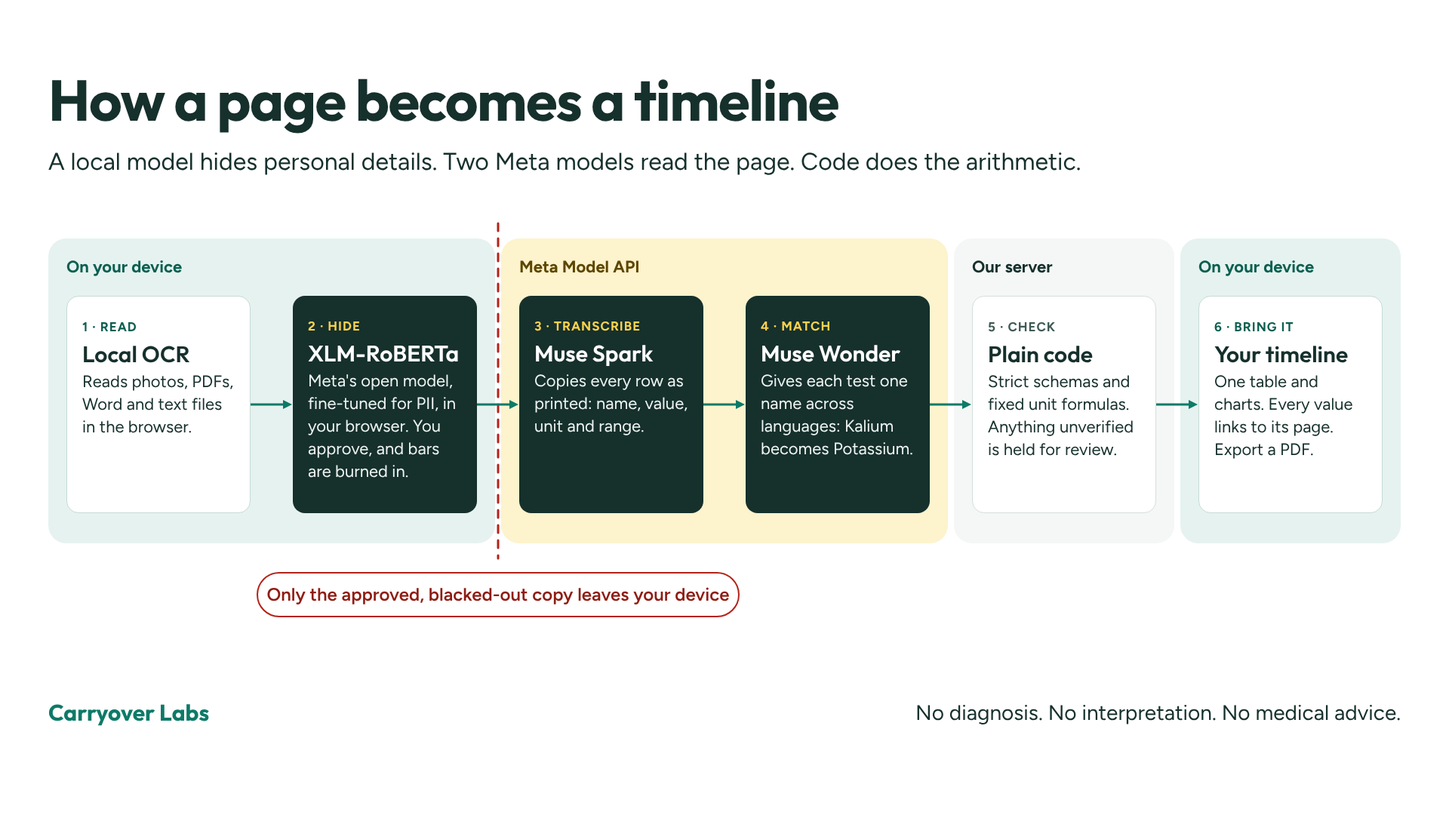
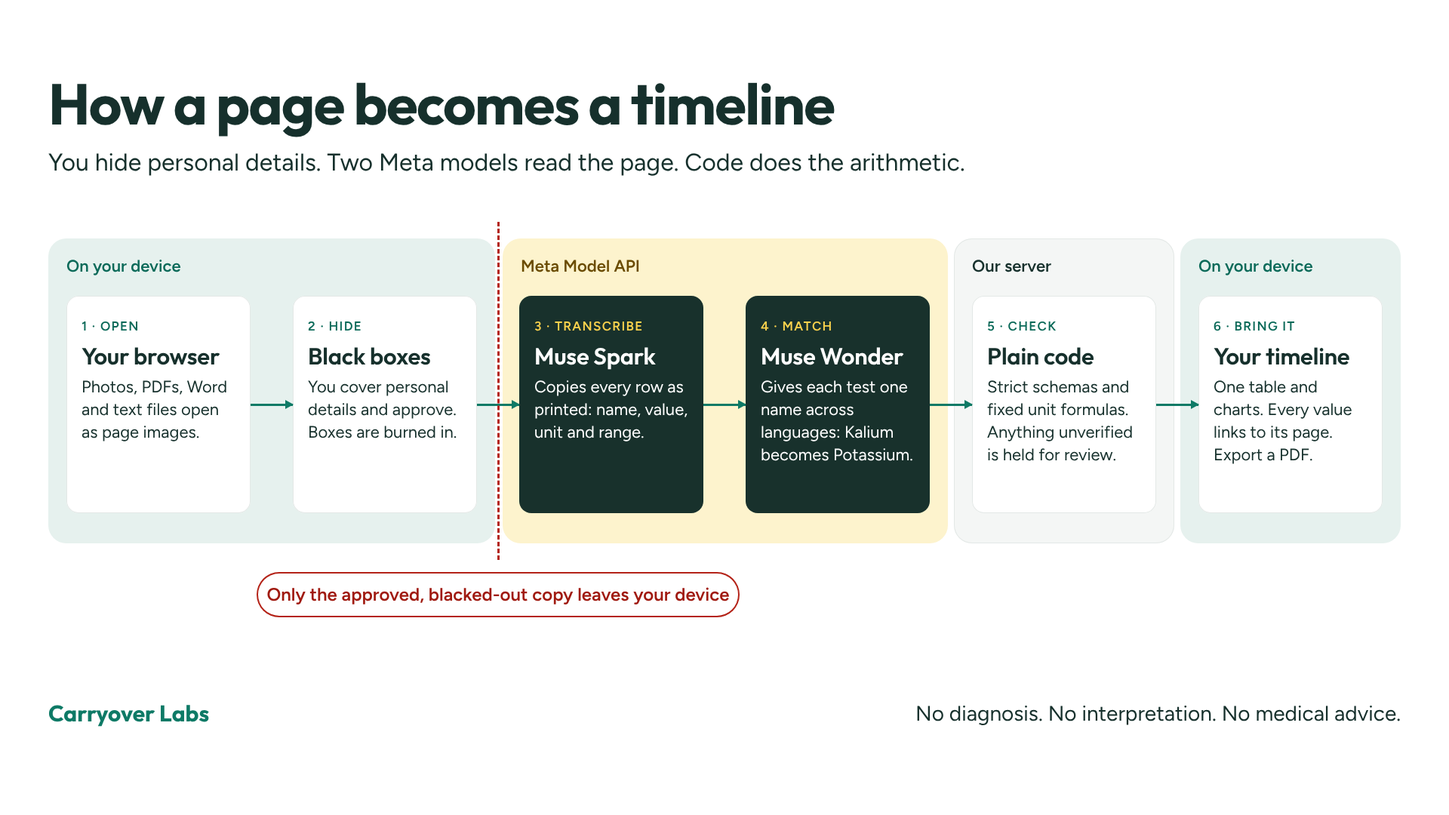
Update docs and images for manual redaction

diff --git a/src/app/review/review.page.css b/src/app/review/review.page.css
@@ -22,6 +22,6 @@
     gap: 1rem;
   }
   .review-embedded .review-decision {
-    max-height: max(20rem, calc(100dvh - 24rem));
+    max-height: max(20rem, calc(100dvh - 20rem));
   }
 }

diff --git a/README.md b/README.md
@@ -9,23 +9,24 @@
 **Years of lab reports. One timeline for a short doctor's appointment.**
 
 [![Try the live demo](https://img.shields.io/badge/Try_the_demo-carryover.pl-0d7a68?style=for-the-badge)](https://carryover.pl/demo)
-[![Watch the demo video](https://img.shields.io/badge/Watch_the_demo-3_min-c4302b?style=for-the-badge&logo=youtube&logoColor=white)](https://youtu.be/tEkvQCoRMUY)
+[![Watch the demo video](https://img.shields.io/badge/Watch_the_demo-2:24-c4302b?style=for-the-badge&logo=youtube&logoColor=white)](https://youtu.be/tEkvQCoRMUY)
 [![Run with Docker](https://img.shields.io/badge/Run_it-docker_compose_up-16302c?style=for-the-badge)](#run-it)
 
 ![Muse Spark 1.3](https://img.shields.io/badge/Muse_Spark-1.3-fcd34d)
 ![Muse Wonder 1.0](https://img.shields.io/badge/Muse_Wonder-1.0-fcd34d)
-![XLM-RoBERTa, on your device](https://img.shields.io/badge/XLM--RoBERTa-on_your_device-fcd34d)
 ![Reads Polish, German and English](https://img.shields.io/badge/reads-PL_·_DE_·_EN-0d7a68)
 
-[How it works](#how-it-works) · [Local PII redaction](#local-pii-redaction) · [How well it works](#how-well-it-works) · [Privacy](#privacy) · [Run it](#run-it) · [Built for the hackathon](#built-for-the-hackathon)
+[How it works](#how-it-works) · [Hiding personal details](#hiding-personal-details) · [How well it works](#how-well-it-works) · [Privacy](#privacy) · [Run it](#run-it) · [Built for the hackathon](#built-for-the-hackathon)
 
 </div>
 
-[![Watch the 3-minute Carryover demo on YouTube](docs/images/demo-thumbnail.png)](https://youtu.be/tEkvQCoRMUY)
+[![Watch the Carryover demo on YouTube](docs/images/demo-thumbnail.png)](https://youtu.be/tEkvQCoRMUY)
 
-<p align="center"><a href="https://youtu.be/tEkvQCoRMUY"><b>▶ Watch the 3-minute demo</b></a></p>
+<p align="center"><a href="https://youtu.be/tEkvQCoRMUY"><b>▶ Watch the demo</b></a></p>
 
-Carryover turns years of lab reports in Polish, German and English into one timeline a patient can bring to a short doctor's appointment. Personal details are found and blacked out in the browser by a local model built on Meta's XLM-RoBERTa, before anything is sent. Every chart point links back to the page it came from.
+Carryover turns years of lab reports in Polish, German and English into one timeline a patient can bring to a short doctor's appointment. You cover personal details with black boxes in the browser and approve each page, so no model sees a page until you say so. Every chart point links back to the page it came from.
+
+**Hackathon entry:** Indie, Build for Your World. Built Oct 26–Nov 4, 2026. The only models it runs are Meta's: Muse Spark 1.3 and Muse Wonder 1.0.
 
 > [!IMPORTANT]
 > Carryover does not diagnose, interpret results or give medical advice. High and low flags and reference ranges are copied from the reports.
@@ -40,21 +41,21 @@ Open **[carryover.pl/demo](https://carryover.pl/demo)**. It needs no account and
 
 - **See the originals** shows the pages the results came from. Every name, lab and address on them has been replaced.
 - **Watch how Meta AI processes docs** sends one of two blacked-out sample pages through the pipeline and shows Meta's recorded answers line by line.
-- **Try the sample patient**, on the Documents page, runs Jane's documents through the normal flow: the privacy check on your device, your approval, then reading and charting.
+- **Try the sample patient**, on the Documents page, runs Jane's documents through the normal flow: you cover what you want hidden, approve, and they are read and charted.
 
-| Check every page before it leaves                                                         | Watch the models read it                                                                              |
-| ----------------------------------------------------------------------------------------- | ----------------------------------------------------------------------------------------------------- |
-| ![The review screen with personal details covered by black bars](docs/images/review.webp) | ![Muse Spark and Muse Wonder reading a German phone photo line by line](docs/images/walkthrough.webp) |
+| Cover every detail before it leaves                                                        | Watch the models read it                                                                              |
+| ------------------------------------------------------------------------------------------ | ----------------------------------------------------------------------------------------------------- |
+| ![The review screen with personal details covered by black boxes](docs/images/review.webp) | ![Muse Spark and Muse Wonder reading a German phone photo line by line](docs/images/walkthrough.webp) |
 
 > [!NOTE]
-> **The sample patient's model responses are real, just cached.** Muse Spark's transcription of each of her 24 pages and Muse Wonder's identity of every test name on them were recorded once from the Meta Model API and are committed in [`api/samples/recorded.json`](api/samples/README.md). The server replays them through the same code as a live answer, so the sample costs nothing, needs no API key and keeps working when the day's spending limit is reached. The recordings were made from the sample pages as published, so hiding more on them doesn't change what comes back. Your own documents are always read live, and nothing about them is cached.
+> **The sample patient's model responses are real, just cached.** Muse Spark's transcription of each of her 24 pages and Muse Wonder's identity of every test name on them were recorded once from the Meta Model API and are committed in [`api/samples/recorded.json`](api/samples/README.md). The server replays them through the same code as a live answer, so the sample costs nothing, needs no API key and keeps working when the day's spending limit is reached. The recordings were made from the sample pages as published, so covering more on them doesn't change what comes back. Your own documents are always read live, and nothing about them is cached.
 
 ## How it works
 
-![The six steps from a page on your device to a timeline](docs/images/pipeline.png)
+![The steps from a page on your device to a timeline](docs/images/pipeline.png)
 
-1. **Add a file.** Photos, PDFs, Word and text files are read in the browser (Tesseract OCR, pdf.js, mammoth).
-2. **Hide personal details.** A local model built on **XLM-RoBERTa** and rules suggest names, addresses and identifiers to hide. The person checks every page, turns sideways pages upright, hides more by tapping words or drawing boxes, and approves. Masks are burned into fresh page images.
+1. **Add a file.** Photos, PDFs, Word and text files become page images in the browser (pdf.js, mammoth). Nothing reads them yet.
+2. **Hide personal details.** The person drags a black box over every name, ID, address and signature, turns sideways pages upright, and approves. Boxes are burned into fresh page images.
 3. **Read the results.** Each approved, redacted page image is queued as a job for **Muse Spark**, which transcribes the lab table literally. The browser collects results with a long poll, so slow model calls never hold a request open.
 4. **Match tests across languages.** **Muse Wonder** maps the printed test names of the whole batch to one identity per test. Unit conversion and chart building are deterministic server code; the model never supplies numbers.
 5. **Bring it to the appointment.** Print the results page or save it as a PDF from the print dialog.
@@ -67,18 +68,17 @@ Readings with an uncertain transcription, an unresolved identity, a missing date
 - **Dates in footnotes.** Some Polish reports print the collection date in a footnote, sometimes on another page. Spark returns each row's footnote marker and every date printed elsewhere, and server code joins them across the document's pages. An ambiguous date such as 01/06/2012 is settled by the other dates in the document, and two conflicting dates leave the reading undated and in review.
 - **Two results on one line.** When a line prints a percentage and an absolute count, as neutrophils often do, Spark returns two rows and Muse Wonder keeps them as separate tests.
 
-Each model has the job it fits. Personal details have to be found before anything leaves the device, so that step runs a small Meta XLM-RoBERTa model in the browser instead of a hosted model. Reading a photographed table needs vision, so each approved page goes to Muse Spark. Naming a test is a question about all the reports together, so Muse Wonder sees every printed name in the batch at once. Numbers never come from a model: unit conversion and charts are plain server code.
+Each model has the job it fits. Reading a photographed table needs vision, so each approved page goes to Muse Spark. Naming a test is a question about all the reports together, so Muse Wonder sees every printed name in the batch at once. Numbers never come from a model: unit conversion and charts are plain server code.
 
-## Local PII redaction
+## Hiding personal details
 
-Health records are too sensitive to redact on a server, so Carryover does it in the browser. It runs [`bardsai/eu-pii-anonimization-multilang`](https://huggingface.co/bardsai/eu-pii-anonimization-multilang), a token classifier built on Meta AI's open [XLM-RoBERTa](https://huggingface.co/FacebookAI/xlm-roberta-base), with no call to any server to find personal details.
+Health records are too sensitive to send anywhere unchecked, so nothing reads a page until the person has approved it.
 
-- **On your device:** the model runs in a Web Worker, as WebGPU FP16 (about 555 MB) or CPU Q8 (about 279 MB). It's downloaded once from Hugging Face at a pinned revision, then reused.
-- **Model plus rules:** rules catch IDs, emails and postcodes alongside the model. Details hidden in one document are reused in the next.
-- **You decide:** you check every page, hide more by tapping words or drawing boxes, and approve. Manual review skips the model entirely.
-- **Burned in, not covered up:** masks are burned into a fresh JPEG, so nothing sits underneath. Reopening a saved copy can only add masks.
+- **On your device:** each page opens as an image in the browser. No model and no OCR run here.
+- **You decide:** drag a box over anything personal, tap a box to remove it, undo, redo and turn sideways pages upright. A keyboard form takes a box as percentages of the page.
+- **Burned in, not covered up:** boxes are burned into a fresh JPEG, so nothing sits underneath and no text layer survives. Reopening a saved copy can only add boxes.
 
-On a synthetic page with five identity fields, the last local check found and fully covered all five and masked no result. On rotated pages, automatic detection found nothing, because OCR doesn't detect orientation, so those pages are turned upright and hidden by hand. `node eval/check-pipeline-privacy.mjs` runs the check in a browser with WebGPU.
+An earlier automatic detector is kept on the `on-device-privacy` branch. It relied on non-Meta models, so it isn't part of this entry or the deployed app.
 
 ## How well it works
 
@@ -95,7 +95,7 @@ On the sample patient's 10 documents (24 pages, 2012–2024, three languages, tw
 
 | Data                                                                    | Where it goes                  |
 | ----------------------------------------------------------------------- | ------------------------------ |
-| Original files, filenames, OCR words, hidden text                       | Nowhere: browser only          |
+| Original files, filenames, anything you cover                           | Nowhere: browser only          |
 | Approved, redacted page images                                          | Our API, then Muse Spark       |
 | Printed test names, units, specimens, section headings and word results | Our API, then Muse Wonder      |
 | Approved sample patient pages                                           | Our API only (recorded answer) |
@@ -115,7 +115,7 @@ docker compose up
 
 Open http://localhost:3000 once the log says `App and API are running`. The first run takes a few minutes. There is one container and no separate frontend or port 4200: the image builds the app and the API for Linux and serves both from one origin.
 
-Put `META_MODEL_API_KEY` in `api/.env` to read your own documents. Without it, `/demo`, the sample patient and on-device redaction still work. The port is bound to `127.0.0.1` because the API spends your Meta credits.
+Put `META_MODEL_API_KEY` in `api/.env` to read your own documents. Without it, `/demo`, the sample patient and covering pages still work. The port is bound to `127.0.0.1` because the API spends your Meta credits.
 
 ### Locally
 
@@ -130,7 +130,7 @@ npm run start:api
 npm start
 ```
 
-Open http://localhost:4200. Without a key, everything but reading your own documents works: `/demo`, the sample patient and on-device redaction.
+Open http://localhost:4200. Without a key, everything but reading your own documents works: `/demo`, the sample patient and covering pages.
 
 ## Built for the hackathon
 
@@ -138,12 +138,13 @@ Carryover was built for the [Meta Global AI Developer Hackathon](https://cerebra
 
 The repository starts on Oct 26. The Oct 29 commit is a large rough draft generated during the hackathon. I didn't commit early, and the later commits refine it.
 
-| Not built here                                                                                                                            | Used for                                 |
-| ----------------------------------------------------------------------------------------------------------------------------------------- | ---------------------------------------- |
-| Muse Spark 1.3, Muse Wonder 1.0 (Meta Model API)                                                                                          | Transcribing pages and identifying tests |
-| [`bardsai/eu-pii-anonimization-multilang`](https://huggingface.co/bardsai/eu-pii-anonimization-multilang), built on Meta AI's XLM-RoBERTa | Finding personal details, in the browser |
-| Tesseract OCR, pdf.js, mammoth                                                                                                            | Reading files in the browser             |
-| Angular, NestJS and other open-source libraries                                                                                           | The app and the API                      |
+| Not built here                                   | Used for                                 |
+| ------------------------------------------------ | ---------------------------------------- |
+| Muse Spark 1.3, Muse Wonder 1.0 (Meta Model API) | Transcribing pages and identifying tests |
+| pdf.js, mammoth                                  | Opening files in the browser             |
+| Angular, NestJS and other open-source libraries  | The app and the API                      |
+
+Muse Spark and Muse Wonder are the only models the project runs.
 
 ## For developers
 
@@ -162,7 +163,7 @@ npm run e2e             # upload → review → approve, the sample patient and 
 node eval/score-samples.mjs   # Meta's recorded answers against the hand-checked rows (no key)
 ```
 
-CI runs the same steps, and prints the evaluation table. Tests use synthetic data and stubbed model calls; they never make paid requests. When `api/samples/recorded.json` is present, the API tests also check that it charts every sample document without a model.
+`.github/workflows/check.yml` runs the same steps and prints the evaluation table. Tests use synthetic data and stubbed model calls; they never make paid requests. When `api/samples/recorded.json` is present, the API tests also check that it charts every sample document without a model.
 
 </details>
 
@@ -171,9 +172,8 @@ CI runs the same steps, and prints the evaluation table. Tests use synthetic dat
 
 | Path                                        | What it does                                                                              |
 | ------------------------------------------- | ----------------------------------------------------------------------------------------- |
-| `src/app/extraction`                        | Reads files and runs local OCR                                                            |
-| `src/app/pii`                               | Finds personal details (local model worker + rules)                                       |
-| `src/app/redaction`, `src/app/review`       | Burns masks into page images; the review screen                                           |
+| `src/app/extraction`                        | Turns files into page images in the browser                                               |
+| `src/app/redaction`, `src/app/review`       | Burns boxes into page images; the review screen                                           |
 | `src/app/core/local-history.ts`             | Browser storage for approved documents and results                                        |
 | `src/app/core/results.service.ts`           | Sends approved pages to the API and saves the answers                                     |
 | `src/app/results`                           | Charts, source viewer, corrections, print layout                                          |
@@ -182,7 +182,7 @@ CI runs the same steps, and prints the evaluation table. Tests use synthetic dat
 | `api/src/shared`                            | Types and pure helpers used by both the app and the API (`@shared/*` in the app)          |
 | `api/samples`, `scripts/record-samples.mjs` | The sample patient's recorded Meta answers, and the script that records them              |
 | `e2e`                                       | Browser smoke tests on the built app (Playwright)                                         |
-| `eval`                                      | Evaluation: recorded answers against checked rows, live model and privacy checks          |
+| `eval`                                      | Evaluation: recorded answers against checked rows, live model checks                      |
 
 </details>
 

diff --git a/docs/architecture.md b/docs/architecture.md
@@ -1,13 +1,12 @@
 # Architecture
 
-Carryover is an Angular app that does all reading and redaction in the browser, plus a small NestJS API that runs approved page images through Meta's models as jobs. The server writes nothing to disk; results wait in its memory until the browser confirms it saved them, for at most 15 minutes.
+Carryover is an Angular app where the person covers personal details on each page, plus a small NestJS API that runs approved page images through Meta's models as jobs. Muse Spark and Muse Wonder are the only models the project runs, and neither sees a page before it's approved. The server writes nothing to disk; results wait in its memory until the browser confirms it saved them, for at most 15 minutes.
 
 ```mermaid
 flowchart LR
-  F[Photo / PDF / Word / text] --> O[Local OCR and text reading]
-  O --> P[Local personal-detail detection]
-  P --> R[Person reviews and approves]
-  R --> B[Masks burned into fresh JPEG]
+  F[Photo / PDF / Word / text] --> O[Page images in the browser]
+  O --> R[Person covers details and approves]
+  R --> B[Boxes burned into fresh JPEG]
   B --> H[(Browser history)]
   H -- one job per page --> S[Muse Spark: literal transcription]
   S --> H
@@ -20,15 +19,14 @@ flowchart LR
 
 ## Browser
 
-| Area          | Files                                                      | Notes                                                                                                                                                                                                                                                                                                                                                                                                             |
-| ------------- | ---------------------------------------------------------- | ----------------------------------------------------------------------------------------------------------------------------------------------------------------------------------------------------------------------------------------------------------------------------------------------------------------------------------------------------------------------------------------------------------------- |
-| Reading       | `extraction/`                                              | One OCR pass per page (Polish, German, English) on a copy at most 2,600 px on its longest side. No orientation detection: on the review screen a sideways page can be turned upright, and its details are then hidden by hand.                                                                                                                                                                                    |
-| Privacy check | `pii/`                                                     | `bardsai/eu-pii-anonimization-multilang`, pinned to revision `62ca5712`, in a Web Worker (WebGPU FP16 ≈ 555 MB, or CPU Q8 ≈ 279 MB) plus rules for IDs, emails and postcodes. Manual review skips the model. Details hidden in one document are reused in the next.                                                                                                                                               |
-| Redaction     | `redaction/`, `review/`                                    | The review screen and the burned image share one mask geometry (`@shared/mask-geometry`); turning a page turns its masks with it. Masks are burned into a fresh JPEG. Reopening a saved copy can only add masks.                                                                                                                                                                                                  |
-| Queue         | `core/document-queue.service.ts`, `core/queue-recovery.ts` | Processes files one at a time; unfinished work survives a refresh (IndexedDB checkpoint).                                                                                                                                                                                                                                                                                                                         |
-| Storage       | `core/local-history.ts`, `core/clear-local-data.ts`        | Approved documents, transcriptions and results in localStorage (parsed once and kept in memory until it changes); page images and the queue in IndexedDB. "Delete all my data from this browser" in the footer removes all of it.                                                                                                                                                                                 |
-| Processing    | `core/results.service.ts`, `core/job-client.ts`            | Submits each unsaved page as a job, collects results with one long poll, saves each page and confirms it, then queues normalization once every document is approved. A refresh resumes the same batch and sends failed pages again; a dropped connection is retried. A server that says no (switched off, today's limit) is reported at once; a queue that stays full for about two minutes stops with a message. |
-| Results       | `results/`                                                 | Charts with keyboard access and data tables, a source viewer, corrections with history, and an A4 print layout for saving as PDF.                                                                                                                                                                                                                                                                                 |
+| Area       | Files                                                      | Notes                                                                                                                                                                                                                                                                                                                                                                                                             |
+| ---------- | ---------------------------------------------------------- | ----------------------------------------------------------------------------------------------------------------------------------------------------------------------------------------------------------------------------------------------------------------------------------------------------------------------------------------------------------------------------------------------------------------- |
+| Opening    | `extraction/`                                              | Turns each file into page images in the browser (pdf.js, mammoth). No model or OCR runs here.                                                                                                                                                                                                                                                                                                                     |
+| Redaction  | `redaction/`, `review/`                                    | The person drags boxes over personal details; a tap removes one. The review screen and the burned image share one mask geometry (`@shared/mask-geometry`); turning a page turns its boxes with it. Boxes are burned into a fresh JPEG. Reopening a saved copy can only add boxes.                                                                                                                                 |
+| Queue      | `core/document-queue.service.ts`, `core/queue-recovery.ts` | Processes files one at a time; unfinished work survives a refresh (IndexedDB checkpoint).                                                                                                                                                                                                                                                                                                                         |
+| Storage    | `core/local-history.ts`, `core/clear-local-data.ts`        | Approved documents, transcriptions and results in localStorage (parsed once and kept in memory until it changes); page images and the queue in IndexedDB. "Delete all my data from this browser" in the footer removes all of it.                                                                                                                                                                                 |
+| Processing | `core/results.service.ts`, `core/job-client.ts`            | Submits each unsaved page as a job, collects results with one long poll, saves each page and confirms it, then queues normalization once every document is approved. A refresh resumes the same batch and sends failed pages again; a dropped connection is retried. A server that says no (switched off, today's limit) is reported at once; a queue that stays full for about two minutes stops with a message. |
+| Results    | `results/`                                                 | Charts with keyboard access and data tables, a source viewer, corrections with history, and an A4 print layout for saving as PDF.                                                                                                                                                                                                                                                                                 |
 
 ## API
 
@@ -47,7 +45,7 @@ Page transcription and normalization run as **jobs**. A request returns `202 Acc
 
 The batch ID is a random UUID kept in the browser; it is never listed. A full queue answers `429` when a page is submitted, never halfway through; an unknown or expired batch reads as empty, and the browser sends its unsaved pages again. While a long poll is open, a newly approved page ends it early so the page is sent at once.
 
-Every response carries a Content-Security-Policy (`api/src/security/http-security.ts`): scripts only from this origin or `blob:` (the ONNX runtime for the privacy model) plus WebAssembly, workers from this origin or `blob:`, network only to this origin and Hugging Face for the privacy model, no framing. Every model answer must match a strict JSON schema (Ajv). Responses over 256 KiB, truncated answers and invalid dates or regions are rejected. Unit factors come only from `records/units.ts`. Readings with an uncertain transcription, an unresolved identity, a missing date or an unverifiable unit stay out of the charts and are listed for review with a reason. Provider error bodies are never logged or returned.
+Every response carries a Content-Security-Policy (`api/src/security/http-security.ts`): scripts and workers only from this origin, WebAssembly for pdf.js's image decoders, network only to this origin, no framing. Every model answer must match a strict JSON schema (Ajv). Responses over 256 KiB, truncated answers and invalid dates or regions are rejected. Unit factors come only from `records/units.ts`. Readings with an uncertain transcription, an unresolved identity, a missing date or an unverifiable unit stay out of the charts and are listed for review with a reason. Provider error bodies are never logged or returned.
 
 Limits (`api/src/jobs/`): `MODEL_CONCURRENCY` model calls at once (default 8, round-robin between batches); `MODEL_DAILY_BUDGET_USD` US dollars of Meta calls per UTC day across everyone (default 10), priced from the token usage each answer reports (cut-off answers included, and the worst case when a call fails without a report), with the worst case of running calls held back; once reached, new pages and normalizations that need Meta get `503` with a plain message until midnight UTC; 40 pages per batch; 400 distinct test names per normalization; 200 jobs and about 300 MB of waiting images in total; a page image is dropped from memory as soon as its job finishes, fails or is cancelled; 15 minutes without contact before a batch is purged; 240 s per model call. There are no per-client rate limits. A malformed request gets `400`. The queue and the spending total live in one process (a restart resets the day's total); several API processes would need a shared store.
 
@@ -55,21 +53,10 @@ Limits (`api/src/jobs/`): `MODEL_CONCURRENCY` model calls at once (default 8, ro
 
 | Data                                                                    | Where it goes                  |
 | ----------------------------------------------------------------------- | ------------------------------ |
-| Original files, filenames, OCR words, hidden text                       | Nowhere: browser only          |
+| Original files, filenames, anything you cover                           | Nowhere: browser only          |
 | Approved, redacted page images                                          | Our API, then Muse Spark       |
 | Printed test names, units, specimens, section headings and word results | Our API, then Muse Wonder      |
 | Approved sample patient pages                                           | Our API only (recorded answer) |
 | Charts, corrections, printed copy                                       | Browser only                   |
 
 Anything a person leaves visible on an approved page is sent. While a job runs and until the browser confirms it saved the result (at most 15 minutes), the page image or its transcription is held in the API's memory, never on disk. Provider retention follows the Meta account's settings.
-
-## GPU model preparation
-
-The WebGPU export is generated, not committed:
-
-```sh
-python -m pip install onnx==1.23.2 onnxruntime==1.31.1
-python scripts/prepare-gpu-model.py
-```
-
-It writes `public/models/pii-fp16-62ca5712-v1/`. Without it, the app uses the CPU export from Hugging Face.

diff --git a/docs/evaluation.md b/docs/evaluation.md
@@ -4,7 +4,7 @@ How well the pipeline reads, names and charts lab results, measured on the sampl
 
 ## Meta's models on the sample patient
 
-`node eval/score-samples.mjs` (after `npm --prefix api run build`) scores Meta's answers for all ten sample documents against rows checked by hand. It needs no key and makes no calls: the answers are the ones recorded in `api/samples/recorded.json`, the same real Muse Spark and Muse Wonder answers the app replays for the sample patient. Each answer goes through the server's own code, as in the app: page parsing, test identification, dates, unit conversion and charts. CI runs it on every push.
+`node eval/score-samples.mjs` (after `npm --prefix api run build`) scores Meta's answers for all ten sample documents against rows checked by hand. It needs no key and makes no calls: the answers are the ones recorded in `api/samples/recorded.json`, the same real Muse Spark and Muse Wonder answers the app replays for the sample patient. Each answer goes through the server's own code, as in the app: page parsing, test identification, dates, unit conversion and charts.
 
 **The checked set.** `src/app/core/demo-data.ts` holds every result row printed on the 10 documents (24 pages, 2012–2024, Polish, German and English; two Polish PDF layouts, a German phone photo and an English fax): 289 rows, each transcribed by hand and checked against the page image, with its test and date. The `/demo` charts are built from them.
 
@@ -40,21 +40,15 @@ Notes on the table:
 
 `node eval/check-pipeline-models.mjs` (after `npm --prefix api run build`, with `META_MODEL_API_KEY` set) sends the German phone photo of the sample patient, `public/samples/live/german-cumulative.jpg`, with its identifiers blacked out, to Muse Spark upright and rotated 90° and 180°, then normalizes the upright result with Muse Wonder. It scores each answer against the hand-checked rows in `eval/fixtures/jane-doe-002.truth.json` (28 rows) and prints a table with round-trip times. It makes paid calls (three Spark pages and one Wonder call); `--upright` makes one Spark call only. Use it to check how Spark copes with sideways photos, which the recorded answers don't cover.
 
-## Local privacy check
-
-`node eval/check-pipeline-privacy.mjs` bundles the production OCR, privacy worker, rules and mask burning into a test page at http://localhost:4294. Open it in a browser with WebGPU and press "Run local checks": it runs a synthetic 2,400 × 1,800 page with five identity fields and a lab table, upright and rotated, and writes timings and coverage to `artifacts/pipeline-verification/privacy-timings.json`.
-
-Its last run (31 October) found and fully covered all five identifiers on the upright page, and masked no result. On rotated pages automatic detection found nothing, because OCR runs once and doesn't detect orientation. The review screen therefore offers Turn left and Turn right on every page: the masks turn with the page, nothing is detected again, and the person hides what's left by hand (`src/app/redaction/rotate.spec.ts`). Hand-drawn boxes burned correctly at every orientation.
-
 ## Automated tests
 
-CI runs on every push and pull request (`.github/workflows/check.yml`): lint, formatting, the app's unit tests, the API tests, both builds, the evaluation above and the browser tests. None of them make paid calls. Among them:
+`.github/workflows/check.yml` runs lint, formatting, the app's unit tests, the API tests, both builds, the evaluation above and the browser tests. None of them make paid calls. Among them:
 
 - **Sample recording.** `api/src/batches/samples.spec.ts` checks the recording still matches the current answer schemas and charts every sample document, alone and all together, with no model.
 - **Model boundary.** `api/src/records/meta-model.spec.ts` covers strict JSON schemas, answers cut off at the token limit, busy retries, and provider text kept out of errors.
 - **Spending limit.** `api/src/jobs/daily-spend.spec.ts` covers the daily dollar cap, including calls still running.
 - **Specimens and forms.** `api/src/batches/specimens.spec.ts`: "Kalium", "Harnstoff" and "Mocznik" stay blood tests; ionized and total calcium and direct and total bilirubin get separate lines; a cell count printed as "3,200" is held for review instead of being read as 3.2.
-- **Browser flow.** `e2e/smoke.spec.ts`: a photo read and approved by hand, with only the approved image sent; the sample patient read and charted with no key; the demo replay.
+- **Browser flow.** `e2e/smoke.spec.ts`: a box drawn on a photo and burned into the only image sent; the sample patient read and charted with no key; the demo replay.
 
 ## Logs and tracing
 
@@ -64,7 +58,7 @@ Set `MODEL_TRACE_DIR` (for example `../tmp/model-trace`) during development to w
 
 ## Known limitations
 
-- Rotated or difficult pages need careful manual masking; turning a page upright doesn't re-run detection.
+- Nothing checks the person's boxes: anything left visible on an approved page is sent.
 - Spark can omit or misread rows, and its regions can be inaccurate. The source page is always one tap away.
 - A value like `1,234` is read as 1.234 regardless of the document's locale; for cell counts it's held for review instead.
 - A test gets a separate line only for a different body fluid (urine, CSF), form (free, total, ionized, direct, indirect) or a percentage; the analyser or method doesn't split it.
